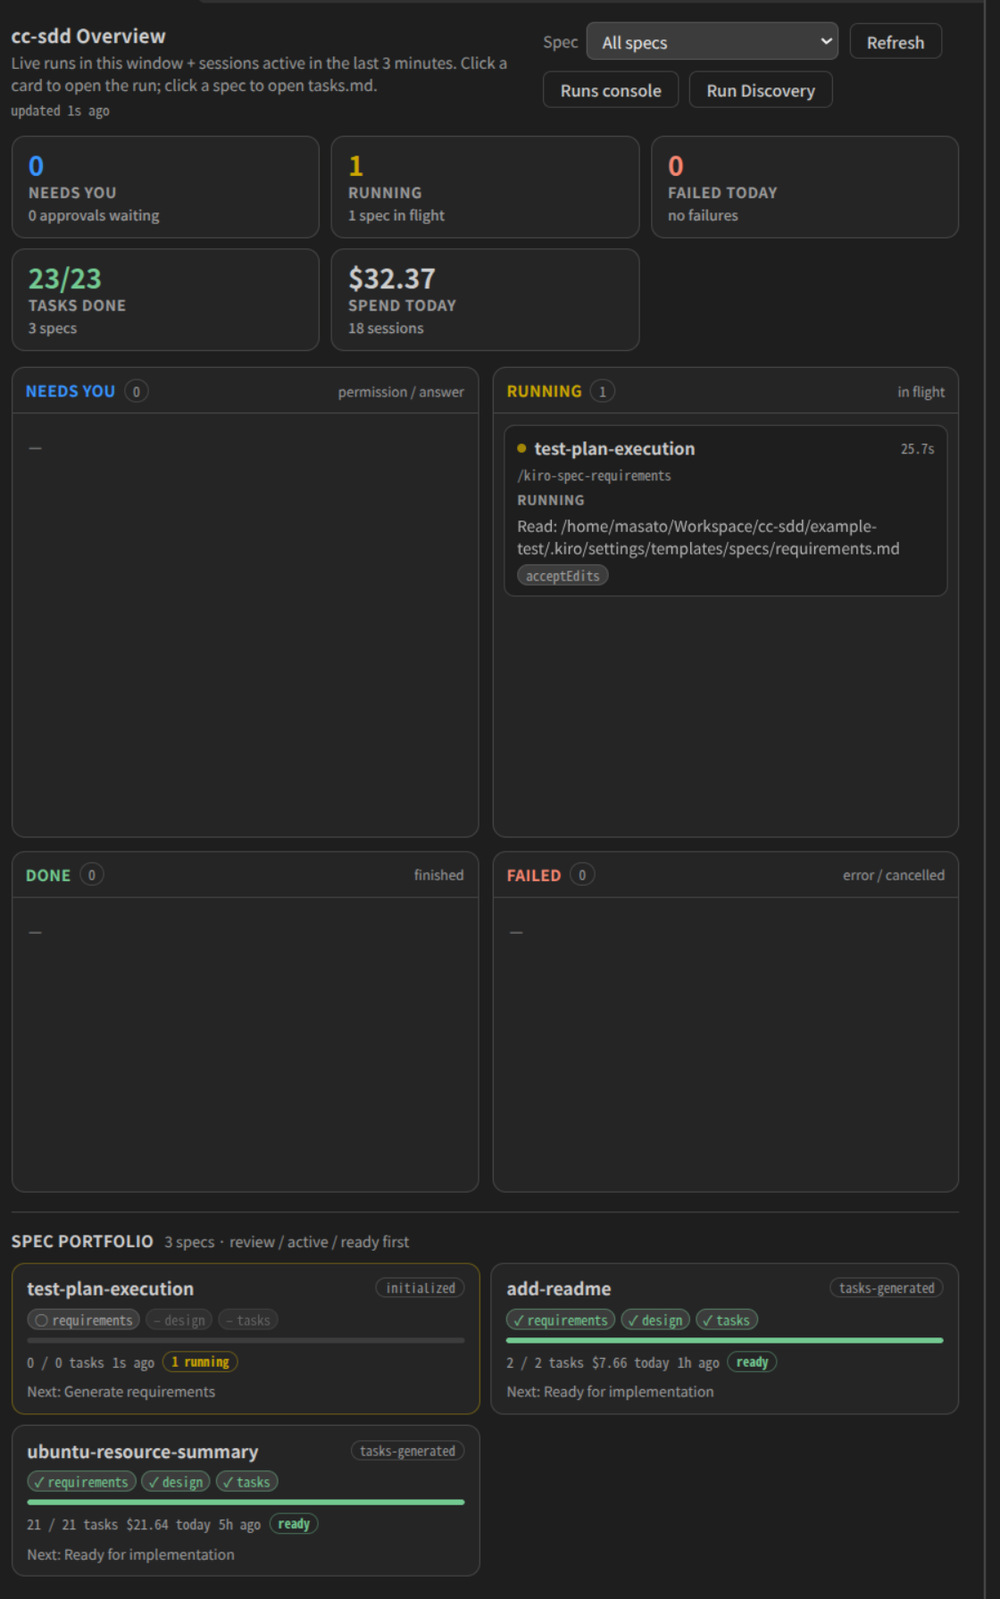
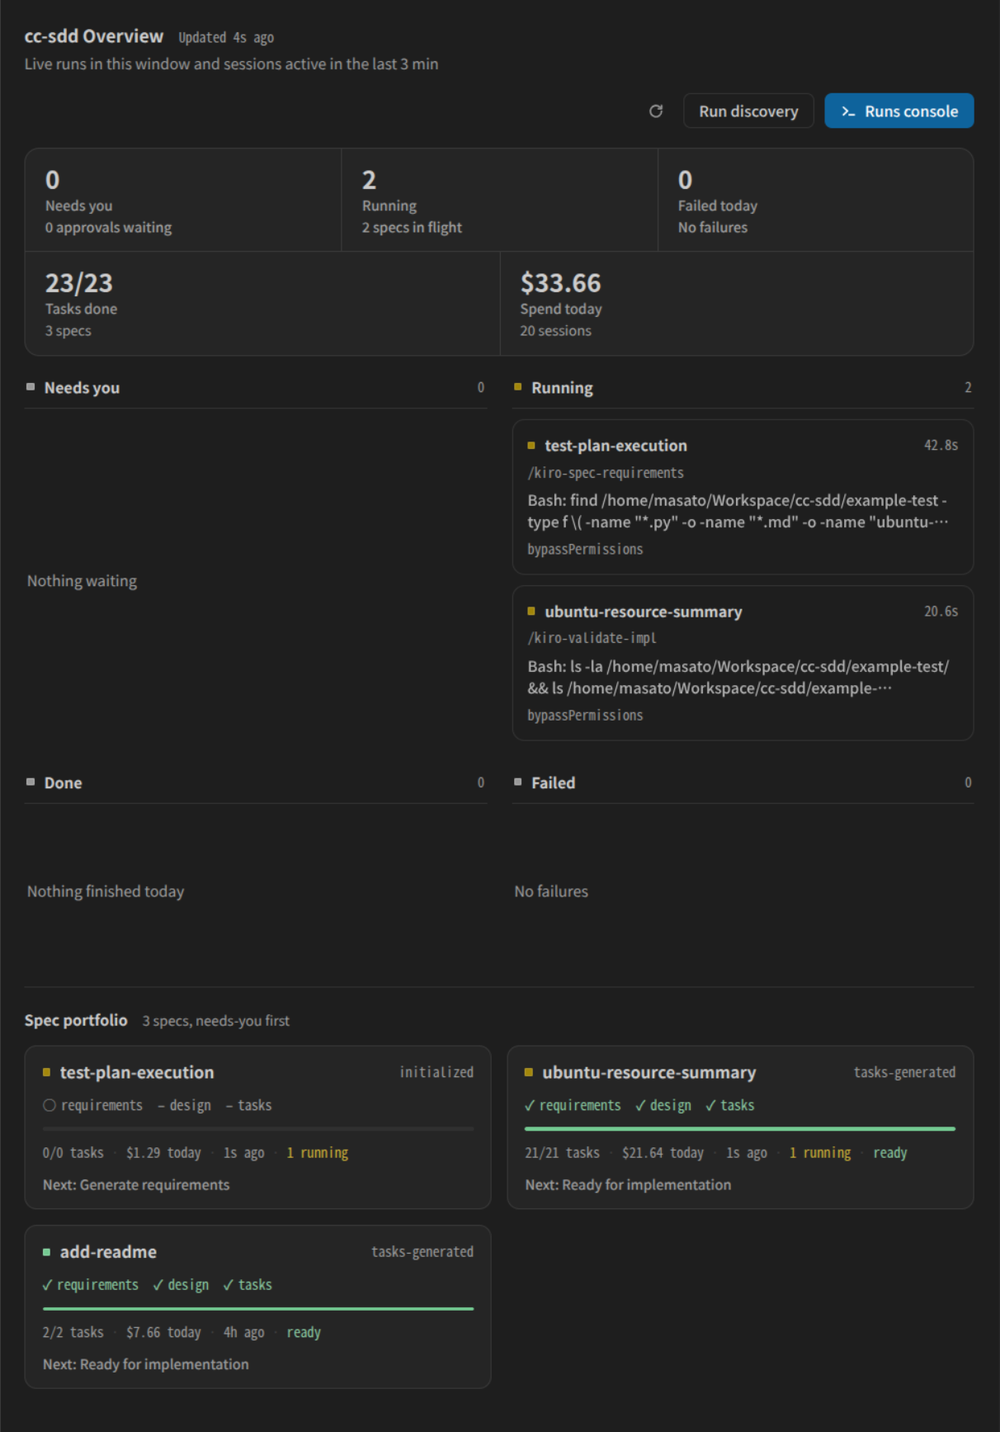
docs: refresh README captures for the refined overview
- Replace the workbench and overview captures with the new UI.
- Update alt text and captions for Runs in the middle and Overview on the right.
- Update the capture order in the development guide.

diff --git a/README.md b/README.md
@@ -6,9 +6,9 @@ English | <a href="./README_ja.md">日本語</a>
 
 A VS Code workbench for [cc-sdd](https://github.com/gotalab/cc-sdd) specs. It reads `.kiro/specs/` directly and adds the missing UI layer: a spec explorer, approval gates, phase launchers, a task board, a headless **Runs** console, resumable Claude Code sessions, and a leader/PM **Overview** board for parallel workers.
 
-![cc-sdd Specs workbench: Specs, Tasks, and Sessions in the sidebar, the cc-sdd Overview board in the middle, and the cc-sdd Runs console streaming a /kiro-spec-requirements run](./assets/workbench.png)
+![cc-sdd Specs workbench: Specs, Tasks, and Sessions in the sidebar, the cc-sdd Runs console in the middle, and the cc-sdd Overview board on the right](./assets/workbench.png)
 
-<div align="center"><sub>Specs, Tasks, and Sessions on the left. The Overview board summarizes waiting workers, live runs, today's spend, and spec progress. The Runs console on the right streams tool calls, markdown output, and progress — permission prompts and <code>AskUserQuestion</code> appear as buttons in the same panel.</sub></div>
+<div align="center"><sub>Specs, Tasks, and Sessions on the left. The Runs console in the middle streams tool calls, markdown output, and progress — permission prompts and <code>AskUserQuestion</code> appear as buttons in the same panel. The Overview board on the right summarizes waiting workers, live runs, today's spend, and spec progress.</sub></div>
 
 Architecture and internals (Japanese): **[docs/](./docs/README.md)**
 

diff --git a/README_ja.md b/README_ja.md
@@ -8,9 +8,9 @@
 
 設計・内部構造のドキュメント: **[docs/](./docs/README.md)**
 
-![cc-sdd Specs ワークベンチ: Specs / Tasks / Sessions のサイドバー、cc-sdd Overview ボード、/kiro-spec-requirements を実行中の cc-sdd Runs コンソール](./assets/workbench.png)
+![cc-sdd Specs ワークベンチ: Specs / Tasks / Sessions のサイドバー、中央の cc-sdd Runs コンソール、右の cc-sdd Overview ボード](./assets/workbench.png)
 
-<div align="center"><sub>左に Specs / Tasks / Sessions。中央の Overview ボードは対応待ち・実行中・当日コスト・spec 進捗をまとめて表示します。右の cc-sdd Runs コンソールはツール呼び出し・Markdown 出力・進捗をストリーミング表示し、権限確認と <code>AskUserQuestion</code> は同じパネル内のボタンで回答できます。</sub></div>
+<div align="center"><sub>左に Specs / Tasks / Sessions。中央の cc-sdd Runs コンソールはツール呼び出し・Markdown 出力・進捗をストリーミング表示し、権限確認と <code>AskUserQuestion</code> は同じパネル内のボタンで回答できます。右の Overview ボードは対応待ち・実行中・当日コスト・spec 進捗をまとめて表示します。</sub></div>
 
 ## フローの対応範囲
 

diff --git a/docs/05-development.md b/docs/05-development.md
@@ -133,7 +133,7 @@ git push origin v0.9.0   # これで Release まで自動
 
 ### README のキャプチャを更新する
 
-1. VS Code で Specs / Overview / Runs を並べた状態を撮る
+1. VS Code で Specs / Runs / Overview を並べた状態を撮る
 2. 全体を `assets/workbench.png`(1800px 幅程度)にリサイズ
 3. Overview パネルだけを `assets/overview.png`(1000px 幅程度)にクロップ
 4. `npm run package` で VSIX にも反映(README / assets は VSIX に含まれる)
